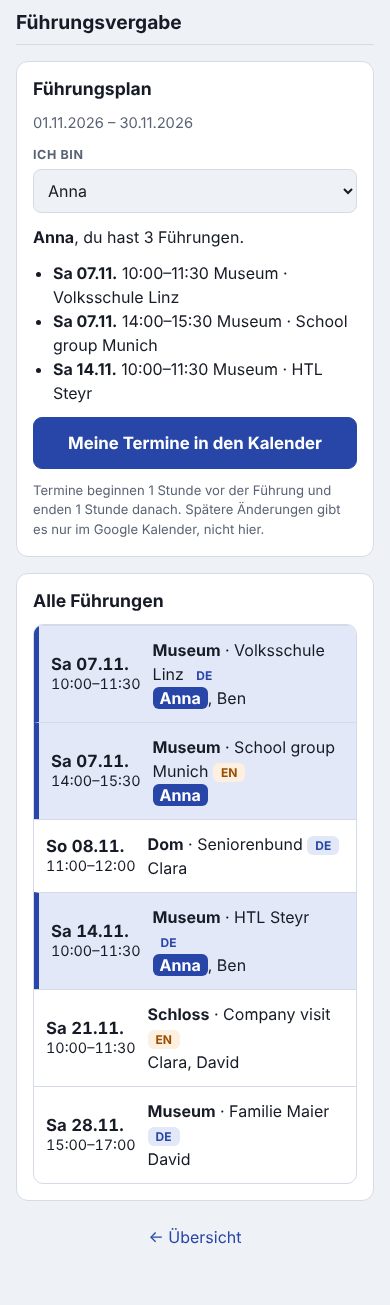
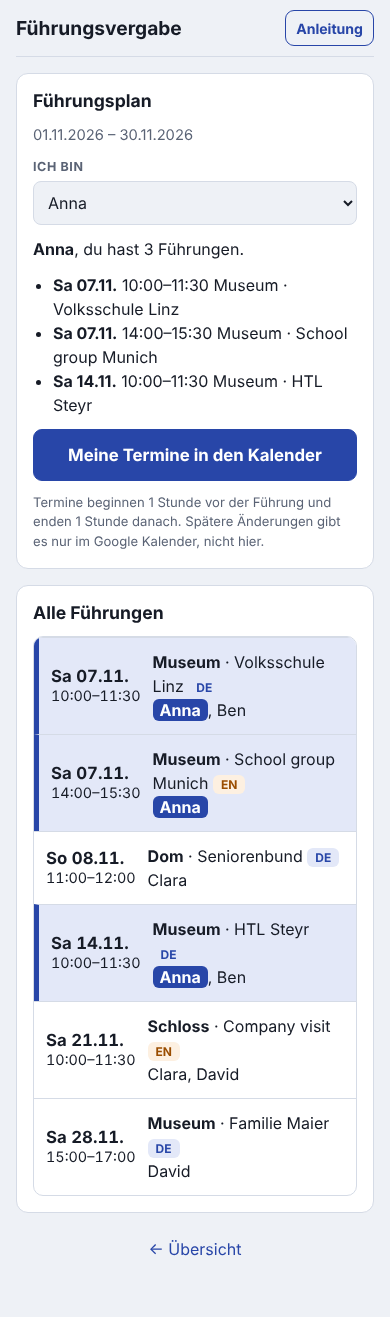
Anleitung auch in der Personen-Ansicht
- Knopf „Anleitung“ in der Kopfzeile jetzt in beiden Ansichten.
- Eigene CSS-Klasse anleitung-text für den Dialog-Inhalt, damit die
  bestehende Klasse .anleitung (Google-Kalender-Schritte) unberührt bleibt.
- Anleitung: Hinweis auf den Knopf im Abschnitt für das Team.
- Abnahmetest: Person öffnet die Anleitung offline.
- Bildschirmfotos der Handy-Ansichten aktualisiert.

diff --git a/app/css/app.css b/app/css/app.css
@@ -47,7 +47,6 @@ header.top {
 }
 body[data-seite^="person"] header.top { max-width: 640px; }
 .top .hilfe { margin-left: auto; }
-body:not([data-seite="koord"]) .top .hilfe { display: none; }
 .hilfe + .update { margin-left: 0; }
 .update { margin-left: auto; font-size: .9rem; display: flex; gap: 8px; align-items: center; }
 main { margin: 0 auto; }
@@ -123,16 +122,16 @@ dialog#anleitung::backdrop { background: rgba(10, 14, 24, .45); }
 .dlg-kopf .lbl { font-weight: 700; }
 .dlg-inhalt { overflow-y: auto; padding: 16px; }
 .dlg-fuss { padding: 10px 16px; border-top: 1px solid var(--line); }
-.anleitung { display: flex; flex-direction: column; gap: 10px; }
-.anleitung h3 { font-size: 1.05rem; margin-top: 8px; }
-.anleitung h4 { font-size: .95rem; margin: 4px 0 0; }
-.anleitung ol, .anleitung ul { margin: 0; padding-left: 22px; display: flex; flex-direction: column; gap: 4px; }
-.anleitung li > ul { margin-top: 4px; }
-.anleitung hr { width: 100%; border: 0; border-top: 1px solid var(--line); margin: 4px 0; }
-.anleitung table { border-collapse: collapse; font-size: .92rem; }
-.anleitung th { text-align: left; font-size: .75rem; text-transform: uppercase; letter-spacing: .04em; color: var(--muted); padding: 6px 8px; border-bottom: 2px solid var(--line); }
-.anleitung td { padding: 6px 8px; border-bottom: 1px solid var(--line); vertical-align: top; }
-.anleitung code { font-family: var(--f-mono); font-size: .88em; }
+.anleitung-text { display: flex; flex-direction: column; gap: 10px; }
+.anleitung-text h3 { font-size: 1.05rem; margin-top: 8px; }
+.anleitung-text h4 { font-size: .95rem; margin: 4px 0 0; }
+.anleitung-text ol, .anleitung-text ul { margin: 0; padding-left: 22px; display: flex; flex-direction: column; gap: 4px; }
+.anleitung-text li > ul { margin-top: 4px; }
+.anleitung-text hr { width: 100%; border: 0; border-top: 1px solid var(--line); margin: 4px 0; }
+.anleitung-text table { border-collapse: collapse; font-size: .92rem; }
+.anleitung-text th { text-align: left; font-size: .75rem; text-transform: uppercase; letter-spacing: .04em; color: var(--muted); padding: 6px 8px; border-bottom: 2px solid var(--line); }
+.anleitung-text td { padding: 6px 8px; border-bottom: 1px solid var(--line); vertical-align: top; }
+.anleitung-text code { font-family: var(--f-mono); font-size: .88em; }
 
 #toast {
   position: fixed; left: 50%; transform: translateX(-50%); bottom: max(16px, env(safe-area-inset-bottom)); z-index: 20;

diff --git a/app/js/ui-common.js b/app/js/ui-common.js
@@ -21,7 +21,7 @@ export async function anleitungZeigen() {
     dlg.id = "anleitung";
     dlg.setAttribute("aria-label", "Anleitung");
     dlg.innerHTML = `<div class="dlg-kopf"><span class="lbl">Anleitung</span><button class="btn small ghost" data-zu>Schließen</button></div>
-      <div class="dlg-inhalt anleitung"><p class="laden">Lädt …</p></div>
+      <div class="dlg-inhalt anleitung-text"><p class="laden">Lädt …</p></div>
       <p class="dlg-fuss klein">Fragen, Fehler oder Wünsche? ${extern(FEEDBACK_URL, "Feedback auf GitHub geben")} (öffentlich, GitHub-Konto nötig – bitte keine Namen aus dem Team) · ${extern(REPO_URL, "Projekt auf GitHub")}</p>`;
     dlg.querySelector("[data-zu]").addEventListener("click", () => dlg.close());
     // Klick auf den abgedunkelten Hintergrund schließt ebenfalls

diff --git a/app/js/ui-koord.js b/app/js/ui-koord.js
@@ -375,7 +375,8 @@ export const actions = {
     if (r) neueRunde(app, newRoundFrom(r));
   },
   "k-demo": (app) => neueRunde(app, demoRound()),
-  "k-anleitung": () => anleitungZeigen(),
+  // Kopfzeile, auch in der Personen-Ansicht (main.js fällt auf diese Aktionen zurück)
+  anleitung: () => anleitungZeigen(),
   "k-loeschen": (app) => {
     const r = cur(app);
     if (!r || !confirm(`${rundenName(r)} wirklich löschen? Das lässt sich nicht rückgängig machen (außer über eine Sicherung).`)) return;

diff --git a/app/index.html b/app/index.html
@@ -19,7 +19,7 @@
 <body>
   <header class="top">
     <h1>Führungsvergabe</h1>
-    <button class="btn small ghost hilfe" data-action="k-anleitung">Anleitung</button>
+    <button class="btn small ghost hilfe" data-action="anleitung">Anleitung</button>
     <div id="update" class="update" hidden>Neue Version verfügbar. <button class="btn small">Neu laden</button></div>
   </header>
   <main id="app" aria-live="polite"><p class="laden">Lädt …</p></main>

diff --git a/CHANGELOG.md b/CHANGELOG.md
@@ -4,7 +4,7 @@ Versionen nach [Semantic Versioning](https://semver.org/lang/de/). Solange die H
 
 ## Unveröffentlicht
 
-- **Anleitung in der App:** In der Koordinationsansicht öffnet **Anleitung** (oben rechts, immer sichtbar) die Kurzanleitung als Dialog, auch offline. Die Anleitung liegt dafür jetzt unter `app/ANLEITUNG.md`.
+- **Anleitung in der App:** **Anleitung** (oben rechts, immer sichtbar, in der Koordinations- und der Personen-Ansicht) öffnet die Kurzanleitung als Dialog, auch offline. Die Anleitung liegt dafür jetzt unter `app/ANLEITUNG.md`.
 - **Feedback:** **Mehr → Feedback geben** öffnet ein Formular für GitHub-Issues (Fehler, Wunsch, Frage), **Mehr → Projekt auf GitHub** das Repository. Hinweis im Formular und in der Anleitung: alles ist öffentlich, keine Namen aus dem Team.
 
 ## v0.1.0-alpha – 15.10.2026

diff --git a/app/ANLEITUNG.md b/app/ANLEITUNG.md
@@ -6,6 +6,8 @@ Die App funktioniert auch ohne Internet, sobald du sie einmal geöffnet hast. Du
 
 ## Für alle im Team (am Handy)
 
+Diese Anleitung findest du in der App jederzeit oben rechts unter **Anleitung**.
+
 ### Wenn eine neue Runde kommt
 
 1. **Nachricht von dem:der Koordinator:in in WhatsApp antippen** (den langen Link).
